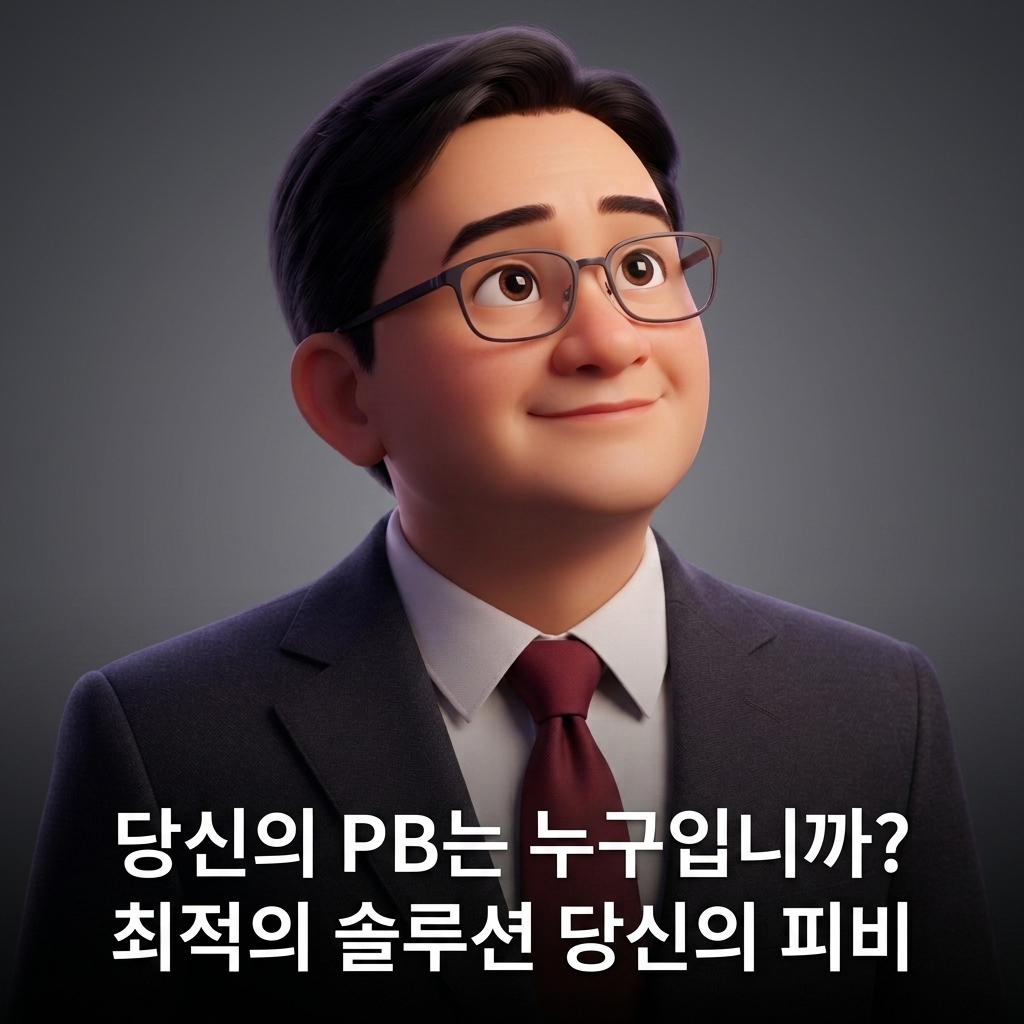
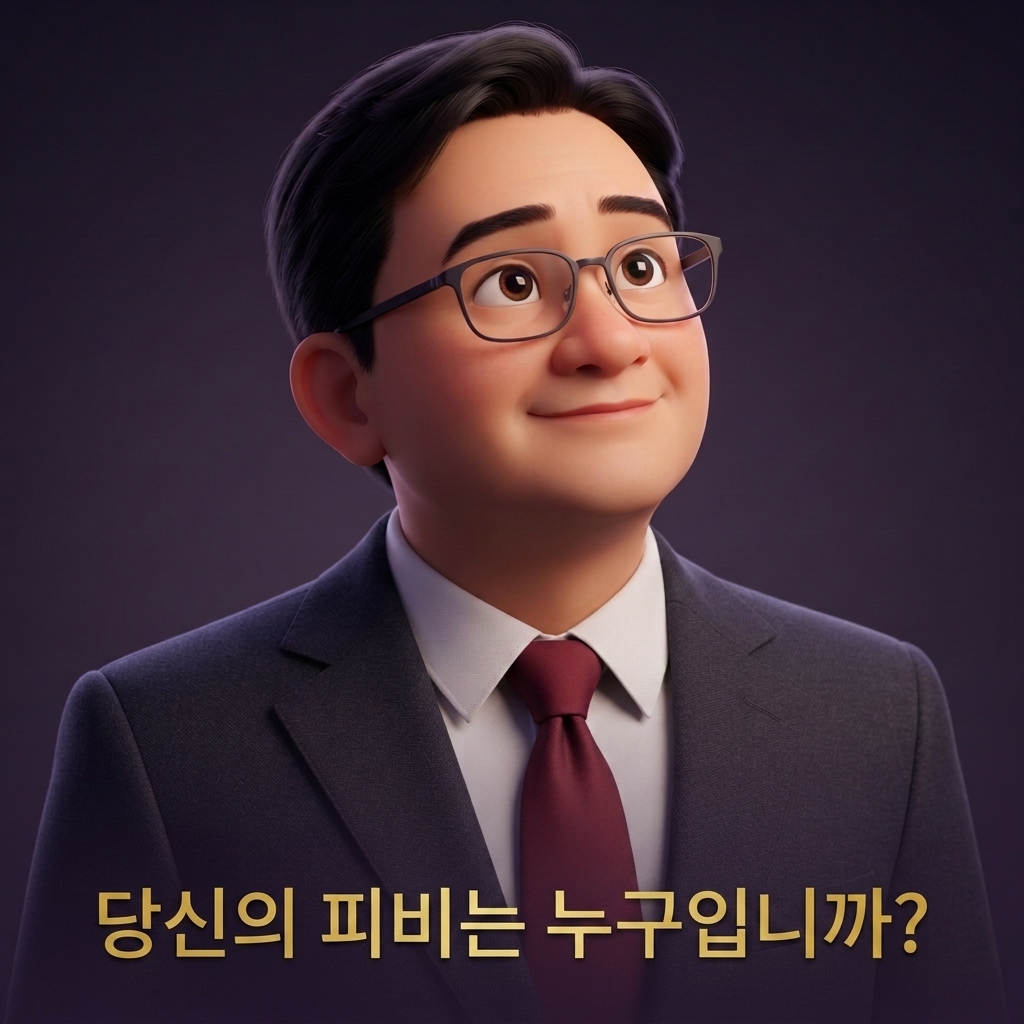
pwa8

diff --git a/src/app/layout.tsx b/src/app/layout.tsx
@@ -12,7 +12,7 @@ export const viewport: Viewport = {
 export const metadata: Metadata = {
   metadataBase: new URL("https://yourpb.vercel.app"),
   title: "당신의 피비 - ETF 포트폴리오 자산관리 파트너",
-  description: "당신의 PB는 누구입니까? 최적의 솔루션 당신의 피비",
+  description: "각종 지표, ETF, 주식 분석을 한 곳에서 확인하세요",
   manifest: "/manifest.json",
   appleWebApp: {
     capable: true,
@@ -24,7 +24,7 @@ export const metadata: Metadata = {
   },
   openGraph: {
     title: "당신의 피비",
-    description: "당신의 PB는 누구입니까? 최적의 솔루션 당신의 피비",
+    description: "각종 지표, ETF, 주식 분석을 한 곳에서 확인하세요",
     url: "https://yourpb.vercel.app",
     siteName: "당신의 피비",
     images: [
